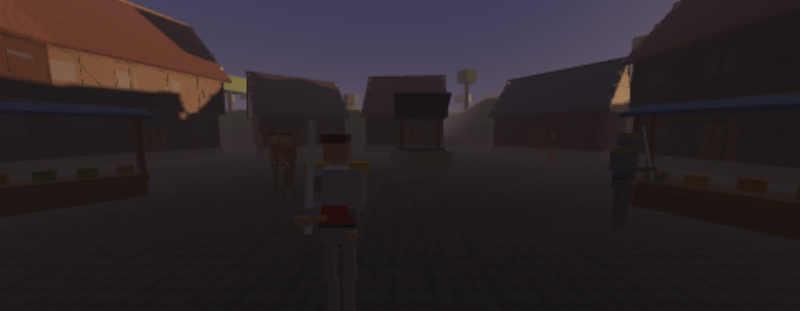
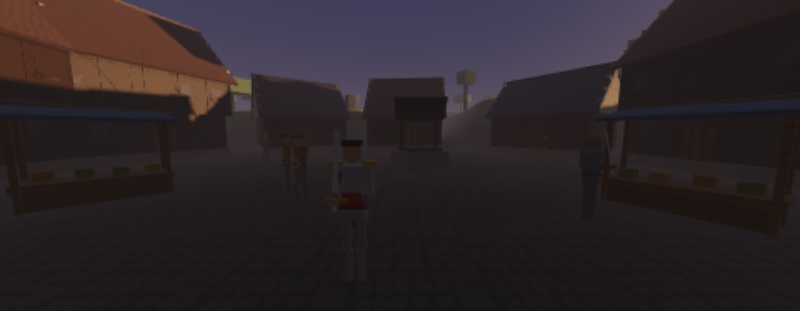
Houses have walls now, not a keep-out circle
A building was a single circle around its footprint, which is the most obvious
lie a world can tell: the corners were solid air, each wall was passable at the
middle of its face, and two houses side by side had a sealed street between them
because their circles overlapped where the buildings did not.

They are oriented rectangles now. The character is moved into the box's own
frame, clamped, and pushed back out through whichever face is nearest — nearest
specifically, because ejecting along the deepest axis is how a character who
steps into a wall comes out through the far side of the building. Velocity into
the surface is removed rather than reflected, so walking at a wall stops you and
walking along one does not.

The camera shares the test, so it can no longer sit inside a wall the player is
standing beside.

Three tests that would have failed yesterday: a wall is solid along its whole
face including near the corners, a corner cannot be cut, and the widest gap
between two houses is walkable.

Claude-Session: https://claude.ai/code/session_0174HBPWQF6tac2bAD18yxdK

diff --git a/src/game/player.js b/src/game/player.js
@@ -123,28 +123,75 @@ export function resolveObstacles(p, obstacles) {
   for (let pass = 0; pass < 2; pass++) {
     let moved = false;
     for (const o of obstacles) {
-      if (!o.radius) continue;
       // Ignore anything whose top is under the player's feet or whose base is
       // over their head: a boulder is not a wall to someone standing on it.
       const half = (Array.isArray(o.scale) ? o.scale[1] : o.scale) / 2;
       if (o.pos[1] + half < p.pos[1] + 0.25 || o.pos[1] - half > p.pos[1] + HEIGHT) continue;
-      const dx = p.pos[0] - o.pos[0], dz = p.pos[2] - o.pos[2];
-      const dist = Math.hypot(dx, dz);
-      const min = o.radius + RADIUS;
-      if (dist >= min || dist < 1e-6) continue;
-      const push = (min - dist) / dist;
-      p.pos[0] += dx * push;
-      p.pos[2] += dz * push;
-      // Kill the velocity component going into the obstacle, so a player
-      // walking into a tree stops rather than juddering against it.
-      const nx = dx / dist, nz = dz / dist;
-      const into = p.vel[0] * nx + p.vel[2] * nz;
-      if (into < 0) { p.vel[0] -= nx * into; p.vel[2] -= nz * into; }
-      moved = true;
+      if (o.box ? pushOutOfBox(p, o) : (o.radius ? pushOutOfCircle(p, o) : false)) moved = true;
     }
     if (!moved) break;
   }
   return p;
+}
+
+/** A trunk, a boulder, a barrel, a person: round in plan, and cannot wedge. */
+function pushOutOfCircle(p, o) {
+  const dx = p.pos[0] - o.pos[0], dz = p.pos[2] - o.pos[2];
+  const dist = Math.hypot(dx, dz);
+  const min = o.radius + RADIUS;
+  if (dist >= min || dist < 1e-6) return false;
+  const push = (min - dist) / dist;
+  p.pos[0] += dx * push;
+  p.pos[2] += dz * push;
+  slide(p, dx / dist, dz / dist);
+  return true;
+}
+
+/**
+ * A wall. The player is moved into the box's own frame, clamped to its
+ * rectangle, and pushed back out along whichever face is nearest.
+ *
+ * A house used to be a single keep-out circle, which is the most obvious lie a
+ * world can tell: the corners of the building were solid air, the walls were
+ * passable at the mid-point of each face, and two houses side by side could not
+ * be walked between. The circle was right for the fifty lines it cost at M2 and
+ * wrong for everything after.
+ */
+function pushOutOfBox(p, o) {
+  const cy = Math.cos(-o.yaw), sy = Math.sin(-o.yaw);
+  const rx = p.pos[0] - o.pos[0], rz = p.pos[2] - o.pos[2];
+  // Into the box's frame.
+  const lx = rx * cy + rz * sy;
+  const lz = -rx * sy + rz * cy;
+  const hx = o.box[0] / 2 + RADIUS, hz = o.box[1] / 2 + RADIUS;
+  if (lx < -hx || lx > hx || lz < -hz || lz > hz) return false;
+
+  // Out through the nearest face, which is what stops a character stepping into
+  // a wall and being ejected through the far side of the building.
+  const dxPos = hx - lx, dxNeg = lx + hx;
+  const dzPos = hz - lz, dzNeg = lz + hz;
+  const minX = Math.min(dxPos, dxNeg), minZ = Math.min(dzPos, dzNeg);
+  let nlx = 0, nlz = 0;
+  if (minX < minZ) nlx = dxPos < dxNeg ? 1 : -1;
+  else nlz = dzPos < dzNeg ? 1 : -1;
+  const depth = Math.min(minX, minZ);
+
+  // Back into world space.
+  const wx = nlx * cy - nlz * sy;
+  const wz = nlx * sy + nlz * cy;
+  p.pos[0] += wx * depth;
+  p.pos[2] += wz * depth;
+  slide(p, wx, wz);
+  return true;
+}
+
+/**
+ * Remove the component of velocity going into a surface, so a character walking
+ * at a wall stops against it and a character walking along one keeps going.
+ */
+function slide(p, nx, nz) {
+  const into = p.vel[0] * nx + p.vel[2] * nz;
+  if (into < 0) { p.vel[0] -= nx * into; p.vel[2] -= nz * into; }
 }
 
 const _n = new Float32Array(3);

diff --git a/tools/test.js b/tools/test.js
@@ -418,6 +418,64 @@ check('a tree is solid', () => {
   assert(w.player.pos[2] < tree.pos[2], 'the character walked through the tree');
 });
 
+// --- walls --------------------------------------------------------------------
+
+check('a wall is solid along its whole face, not just at the middle', () => {
+  const w = createWorld({ seed: 5, props: 0, people: false });
+  const house = w.obstacles.find((o) => o.box);
+  assert(house, 'the town has no walls at all');
+  const [bw, bd] = house.box;
+  const cy = Math.cos(house.yaw), sy = Math.sin(house.yaw);
+  // Walk at the wall from several points along it, including near the corners,
+  // which is exactly where a keep-out circle used to let a character through.
+  for (const t of [-0.42, -0.2, 0, 0.2, 0.42]) {
+    const lx = t * bw, lz = -(bd / 2 + 4);
+    const startX = house.pos[0] + lx * cy + lz * sy;
+    const startZ = house.pos[2] - lx * sy + lz * cy;
+    const world = createWorld({ seed: 5, props: 0, people: false, start: [startX, startZ] });
+    // Face the wall, then run at it for three seconds.
+    world.player.yaw = Math.atan2(house.pos[0] - startX, house.pos[2] - startZ);
+    for (let i = 0; i < 180; i++) world.tick(1 / 60, { ...idleIntent(), forward: 1, run: true });
+    const p = world.player.pos;
+    const dx = p[0] - house.pos[0], dz = p[2] - house.pos[2];
+    const px = dx * cy - dz * sy, pz = dx * sy + dz * cy;
+    const inside = Math.abs(px) < bw / 2 - 0.05 && Math.abs(pz) < bd / 2 - 0.05;
+    assert(!inside, `the character walked into the house at t=${t} (local ${px.toFixed(2)}, ${pz.toFixed(2)})`);
+  }
+});
+
+check('a corner is solid too', () => {
+  const w = createWorld({ seed: 5, props: 0, people: false });
+  const house = w.obstacles.find((o) => o.box);
+  const diag = Math.hypot(house.box[0], house.box[1]) / 2 + 3;
+  const startX = house.pos[0] + diag * 0.71, startZ = house.pos[2] + diag * 0.71;
+  const world = createWorld({ seed: 5, props: 0, people: false, start: [startX, startZ] });
+  world.player.yaw = Math.atan2(house.pos[0] - startX, house.pos[2] - startZ);
+  for (let i = 0; i < 240; i++) world.tick(1 / 60, { ...idleIntent(), forward: 1, run: true });
+  const dx = world.player.pos[0] - house.pos[0], dz = world.player.pos[2] - house.pos[2];
+  const cy = Math.cos(house.yaw), sy = Math.sin(house.yaw);
+  const px = dx * cy - dz * sy, pz = dx * sy + dz * cy;
+  assert(Math.abs(px) > house.box[0] / 2 - 0.05 || Math.abs(pz) > house.box[1] / 2 - 0.05,
+    `the character cut the corner into the house (local ${px.toFixed(2)}, ${pz.toFixed(2)})`);
+});
+
+check('a character can walk down the gap between two houses', () => {
+  // The circle version could not: two round keep-outs overlap where the
+  // buildings do not, and the street between them was sealed.
+  const w = createWorld({ seed: 5, props: 0, people: false });
+  const walls = w.obstacles.filter((o) => o.box);
+  assert(walls.length >= 2, 'not enough houses to have a street');
+  let widest = 0;
+  for (let i = 0; i < walls.length; i++) {
+    for (let j = i + 1; j < walls.length; j++) {
+      const d = Math.hypot(walls[i].pos[0] - walls[j].pos[0], walls[i].pos[2] - walls[j].pos[2]);
+      const need = (Math.max(...walls[i].box) + Math.max(...walls[j].box)) / 2;
+      widest = Math.max(widest, d - need);
+    }
+  }
+  assert(widest > 1.2, `the widest gap between two houses is ${widest.toFixed(2)} m`);
+});
+
 check('the camera stays out of the ground and behind the player', () => {
   const w = createWorld({ seed: 5, props: 120 });
   const rng = makeRng(3);

diff --git a/src/world/buildings.js b/src/world/buildings.js
@@ -158,14 +158,14 @@ export function buildHouse(spec) {
   }
 
   // --- collision -------------------------------------------------------------
-  // One circle around the footprint. A house is not a circle, but at M2 the
-  // character controller only knows circles, and a slightly generous keep-out
-  // around a building is much better than walking through its front wall. Real
-  // wall collision arrives with the interiors at M3.
+  // The footprint, as an oriented rectangle rather than the circle this used to
+  // be. A circle around a house makes its corners solid air, its walls passable
+  // at the middle of each face, and the gap between two neighbours impassable.
+  const jetty = storeys > 1 ? 0.64 : 0;
   out.push({
-    pos: [spec.x, y0 + 1.5, spec.z], yaw, pitch: 0,
-    scale: [0.01, 3, 0.01], albedo: [0, 0, 0],
-    radius: Math.max(w, d) * 0.52, invisible: true,
+    pos: [spec.x, y0 + (eaves / 2), spec.z], yaw, pitch: 0,
+    scale: [0.01, eaves, 0.01], albedo: [0, 0, 0],
+    box: [w + jetty, d + jetty], invisible: true,
   });
 
   return out;

diff --git a/src/game/camera.js b/src/game/camera.js
@@ -77,11 +77,16 @@ function blocked(x, y, z, terrain, obstacles) {
   if (terrain && y < terrain.heightAt(x, z) + 0.3) return true;
   if (obstacles) {
     for (const o of obstacles) {
-      if (!o.radius) continue;
       const half = (Array.isArray(o.scale) ? o.scale[1] : o.scale) / 2;
       if (y < o.pos[1] - half || y > o.pos[1] + half) continue;
       const dx = x - o.pos[0], dz = z - o.pos[2];
-      if (dx * dx + dz * dz < (o.radius + 0.3) ** 2) return true;
+      if (o.box) {
+        // Same rectangle the character collides against, so the camera cannot
+        // sit inside a wall the player is standing beside.
+        const cy = Math.cos(-o.yaw), sy = Math.sin(-o.yaw);
+        const lx = dx * cy + dz * sy, lz = -dx * sy + dz * cy;
+        if (Math.abs(lx) < o.box[0] / 2 + 0.3 && Math.abs(lz) < o.box[1] / 2 + 0.3) return true;
+      } else if (o.radius && dx * dx + dz * dz < (o.radius + 0.3) ** 2) return true;
     }
   }
   return false;

diff --git a/src/world/world.js b/src/world/world.js
@@ -157,7 +157,7 @@ export function createWorld(opts = {}) {
     : opts.people === false ? [] : makePeople(terrain, seed);
 
   // Everything the character controller can bump into.
-  const obstacles = [...props, ...town].filter((b) => b.radius);
+  const obstacles = [...props, ...town].filter((b) => b.radius || b.box);
 
   // Scene buffers, reused every frame: the scene is a *view* of the simulation
   // and rebuilding it must not allocate (§8.1.4). The static half never changes;

diff --git a/README.md b/README.md
@@ -38,7 +38,7 @@ What exists, and the command that proves it:
 | Renderer | WebGL2 behind a device interface, ACES tonemapping, hemisphere ambient, sun and moon key light, aerial-perspective fog, shader compilation that cannot fail silently | `npm run shot` |
 | Terrain | Seeded heightfield with authored control curves — a settlement pad and a wandering road that bend the noise rather than sit on it — slope- and altitude-blended colour, rule-based scatter | `npm test`, `npm run shot` |
 | Streaming | 576 m of ground around the player in 64 m chunks, four levels of detail by ring, skirts over the seams, deep water never built, rebuilt only when the player crosses a chunk boundary | `npm test`, `npm run shot -- --vista` |
-| Traversal | Capsule character with mass, acceleration, friction, gravity, jump, sneak, slope sliding, circle-versus-circle obstacle resolution | `npm run play` |
+| Traversal | Capsule character with mass, acceleration, friction, gravity, jump, sneak, slope sliding, and collision against both round obstacles and oriented wall rectangles | `npm run play`, `npm test` |
 | Camera | Spring arm that pulls in instantly and eases out, never enters terrain or a tree, leads the character when they move | `npm test`, `npm run play` |
 | Loop | Fixed 60 Hz simulation, rendering decoupled, catch-up clamped and capped, `?off=` switches, `F3` overlay with frame percentiles | `npm run perf` |
 | World clock | Two-hour day, twilight, moonlight, sleep-until-hour | `npm test` |
@@ -57,9 +57,8 @@ Two preview framings exist alongside the four times of day:
 framing that shows whether the distance holds up.
 
 Next is **M3** (the worldgen tool, the in-browser placement editor, baked nav
-data), then the rest of **M4/M5**: real interiors and wall collision — a house
-is still one keep-out circle, which is the most obvious remaining lie in the
-world. The milestone table is §14 of the brief.
+data), then the rest of **M4/M5**: interiors you can walk into, and a
+skinned mesh for the characters. The milestone table is §14 of the brief.
 
 Two things are tied to the quality tier: shadows and material detail. Both are
 nearly free on a GPU and both are expensive on a software rasteriser — one
